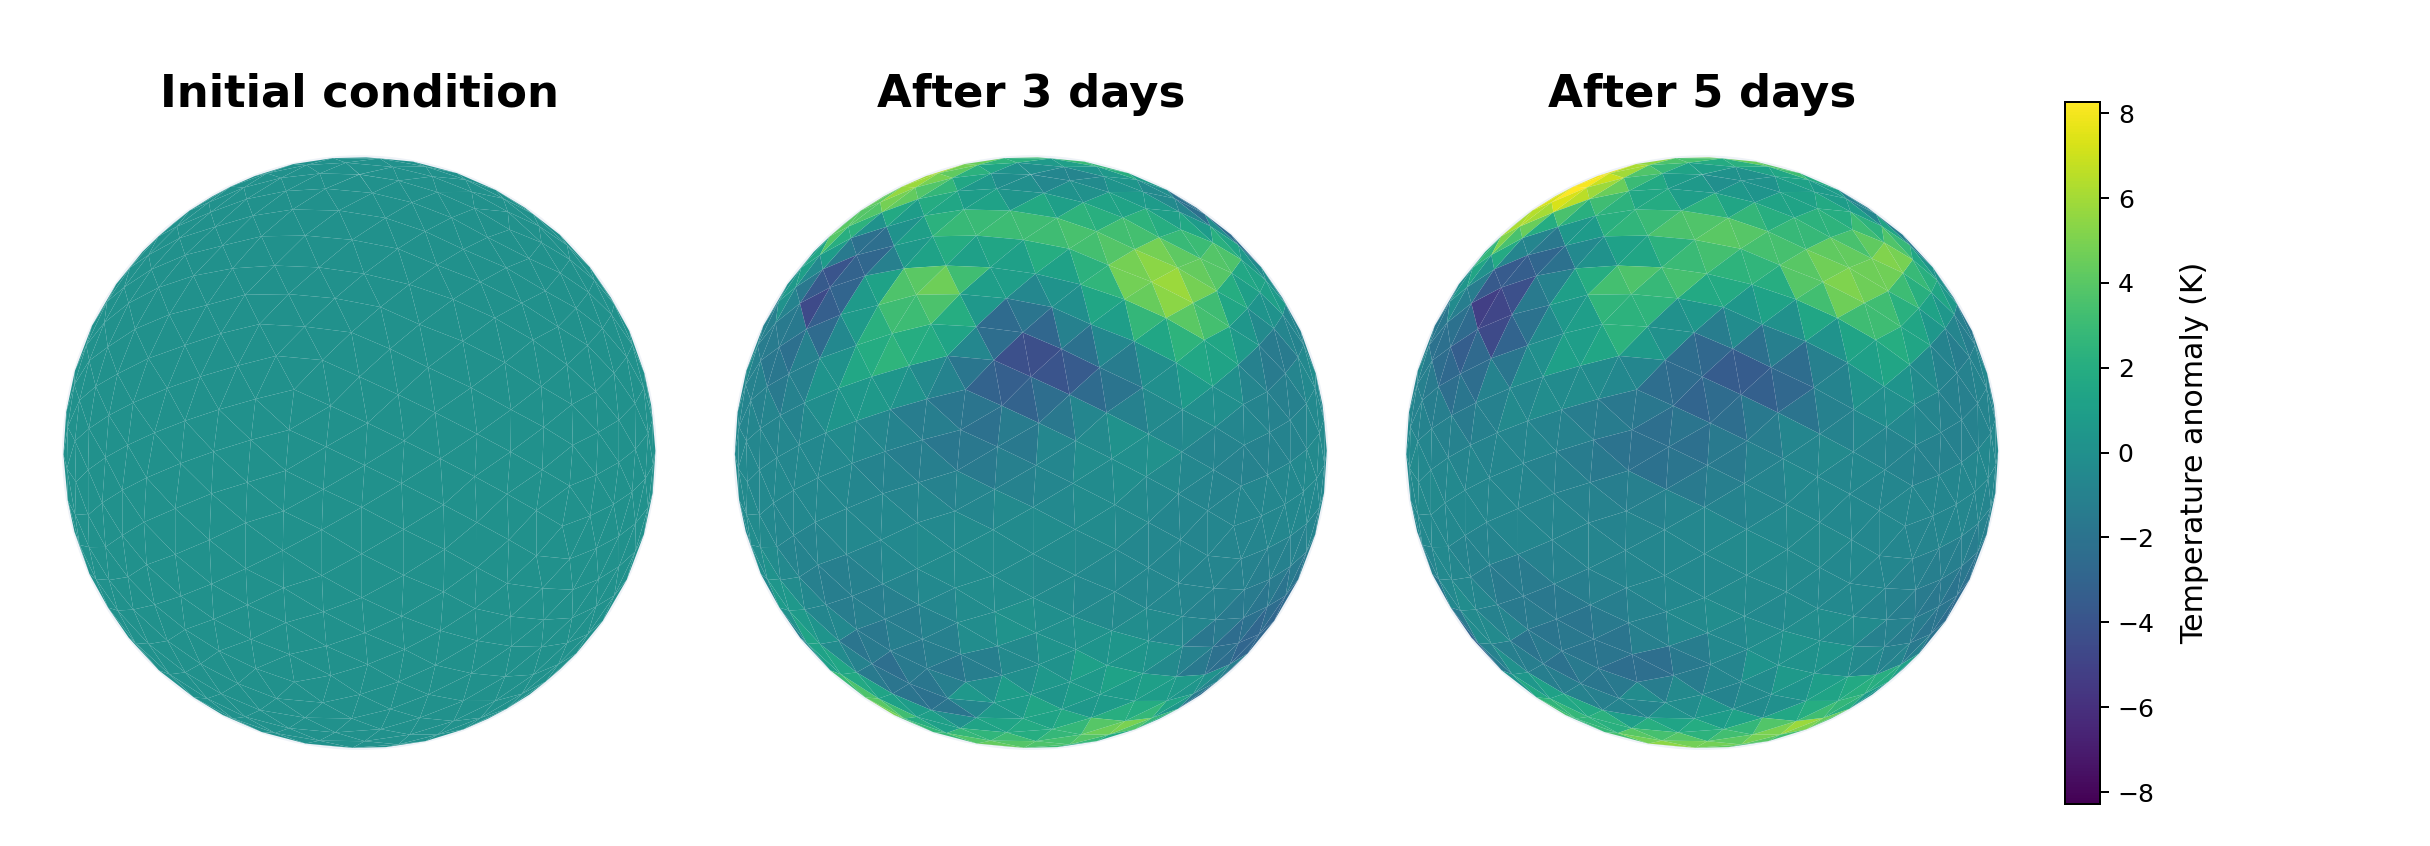
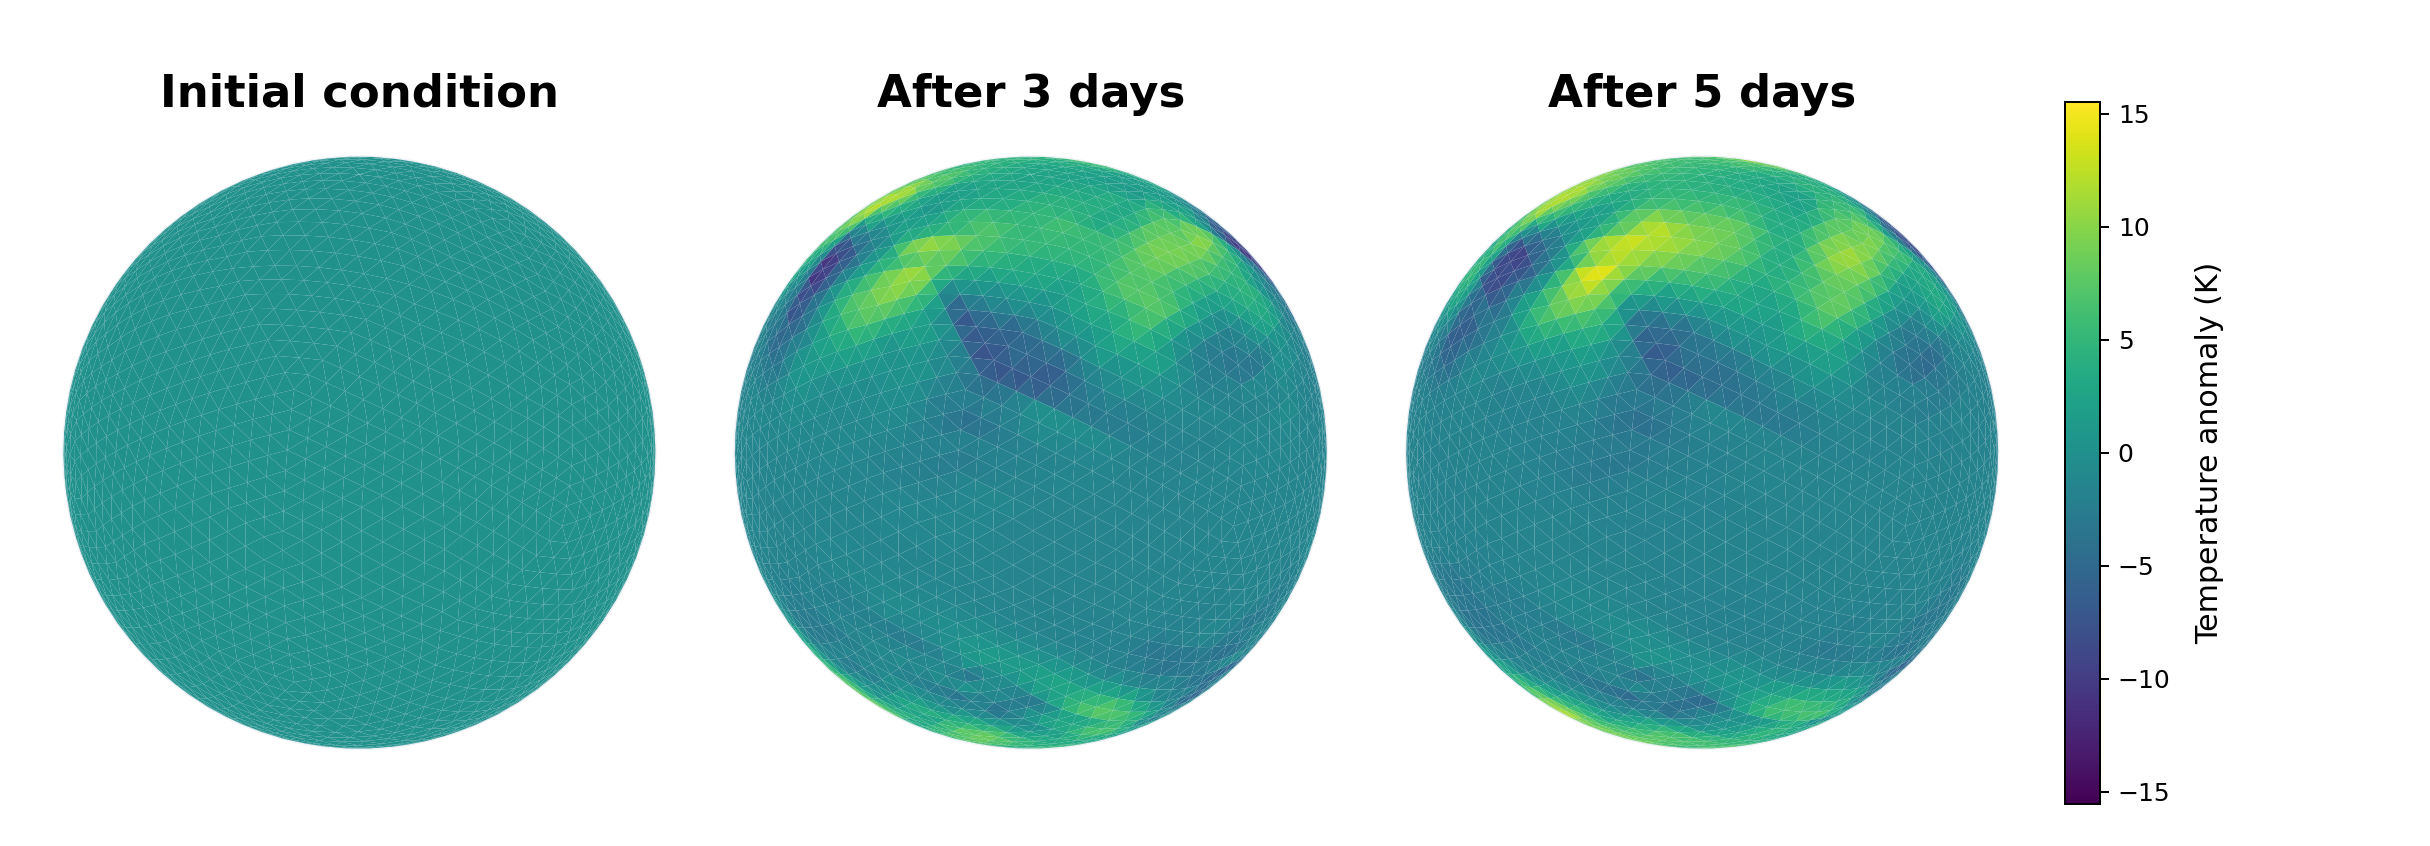
Regenerate README figure on R02B03

diff --git a/scripts/generate_readme_figure.py b/scripts/generate_readme_figure.py
@@ -26,6 +26,7 @@ from icon4py_helper import (  # noqa: E402
 
 
 OUTPUT_PATH = PROJECT_ROOT / "docs" / "assets" / "temperature_evolution.png"
+GRID_NAME = "R02B03"
 
 
 def lonlat_to_xyz(lon_degrees, lat_degrees):
@@ -56,10 +57,10 @@ def level_temperature(snapshot, *, level):
 
 
 def run_simulation():
-    print("configuring README figure run", flush=True)
+    print(f"configuring README figure run for {GRID_NAME}", flush=True)
     config = check_config(
         {
-            "grid": "R02B02",
+            "grid": GRID_NAME,
             "backend": "gtfn_cpu",
             "levels": 10,
             "dtime_seconds": 120,

diff --git a/README.md b/README.md
@@ -95,6 +95,9 @@ The README figure is generated from the same helper workflow as the notebook:
 make readme-figure
 ```
 
+The generated figure uses the `R02B03` grid and plots temperature anomalies as
+`day N - initial condition`.
+
 ## Dependency Maintenance
 
 `requirements.txt` is the installation entrypoint. It references